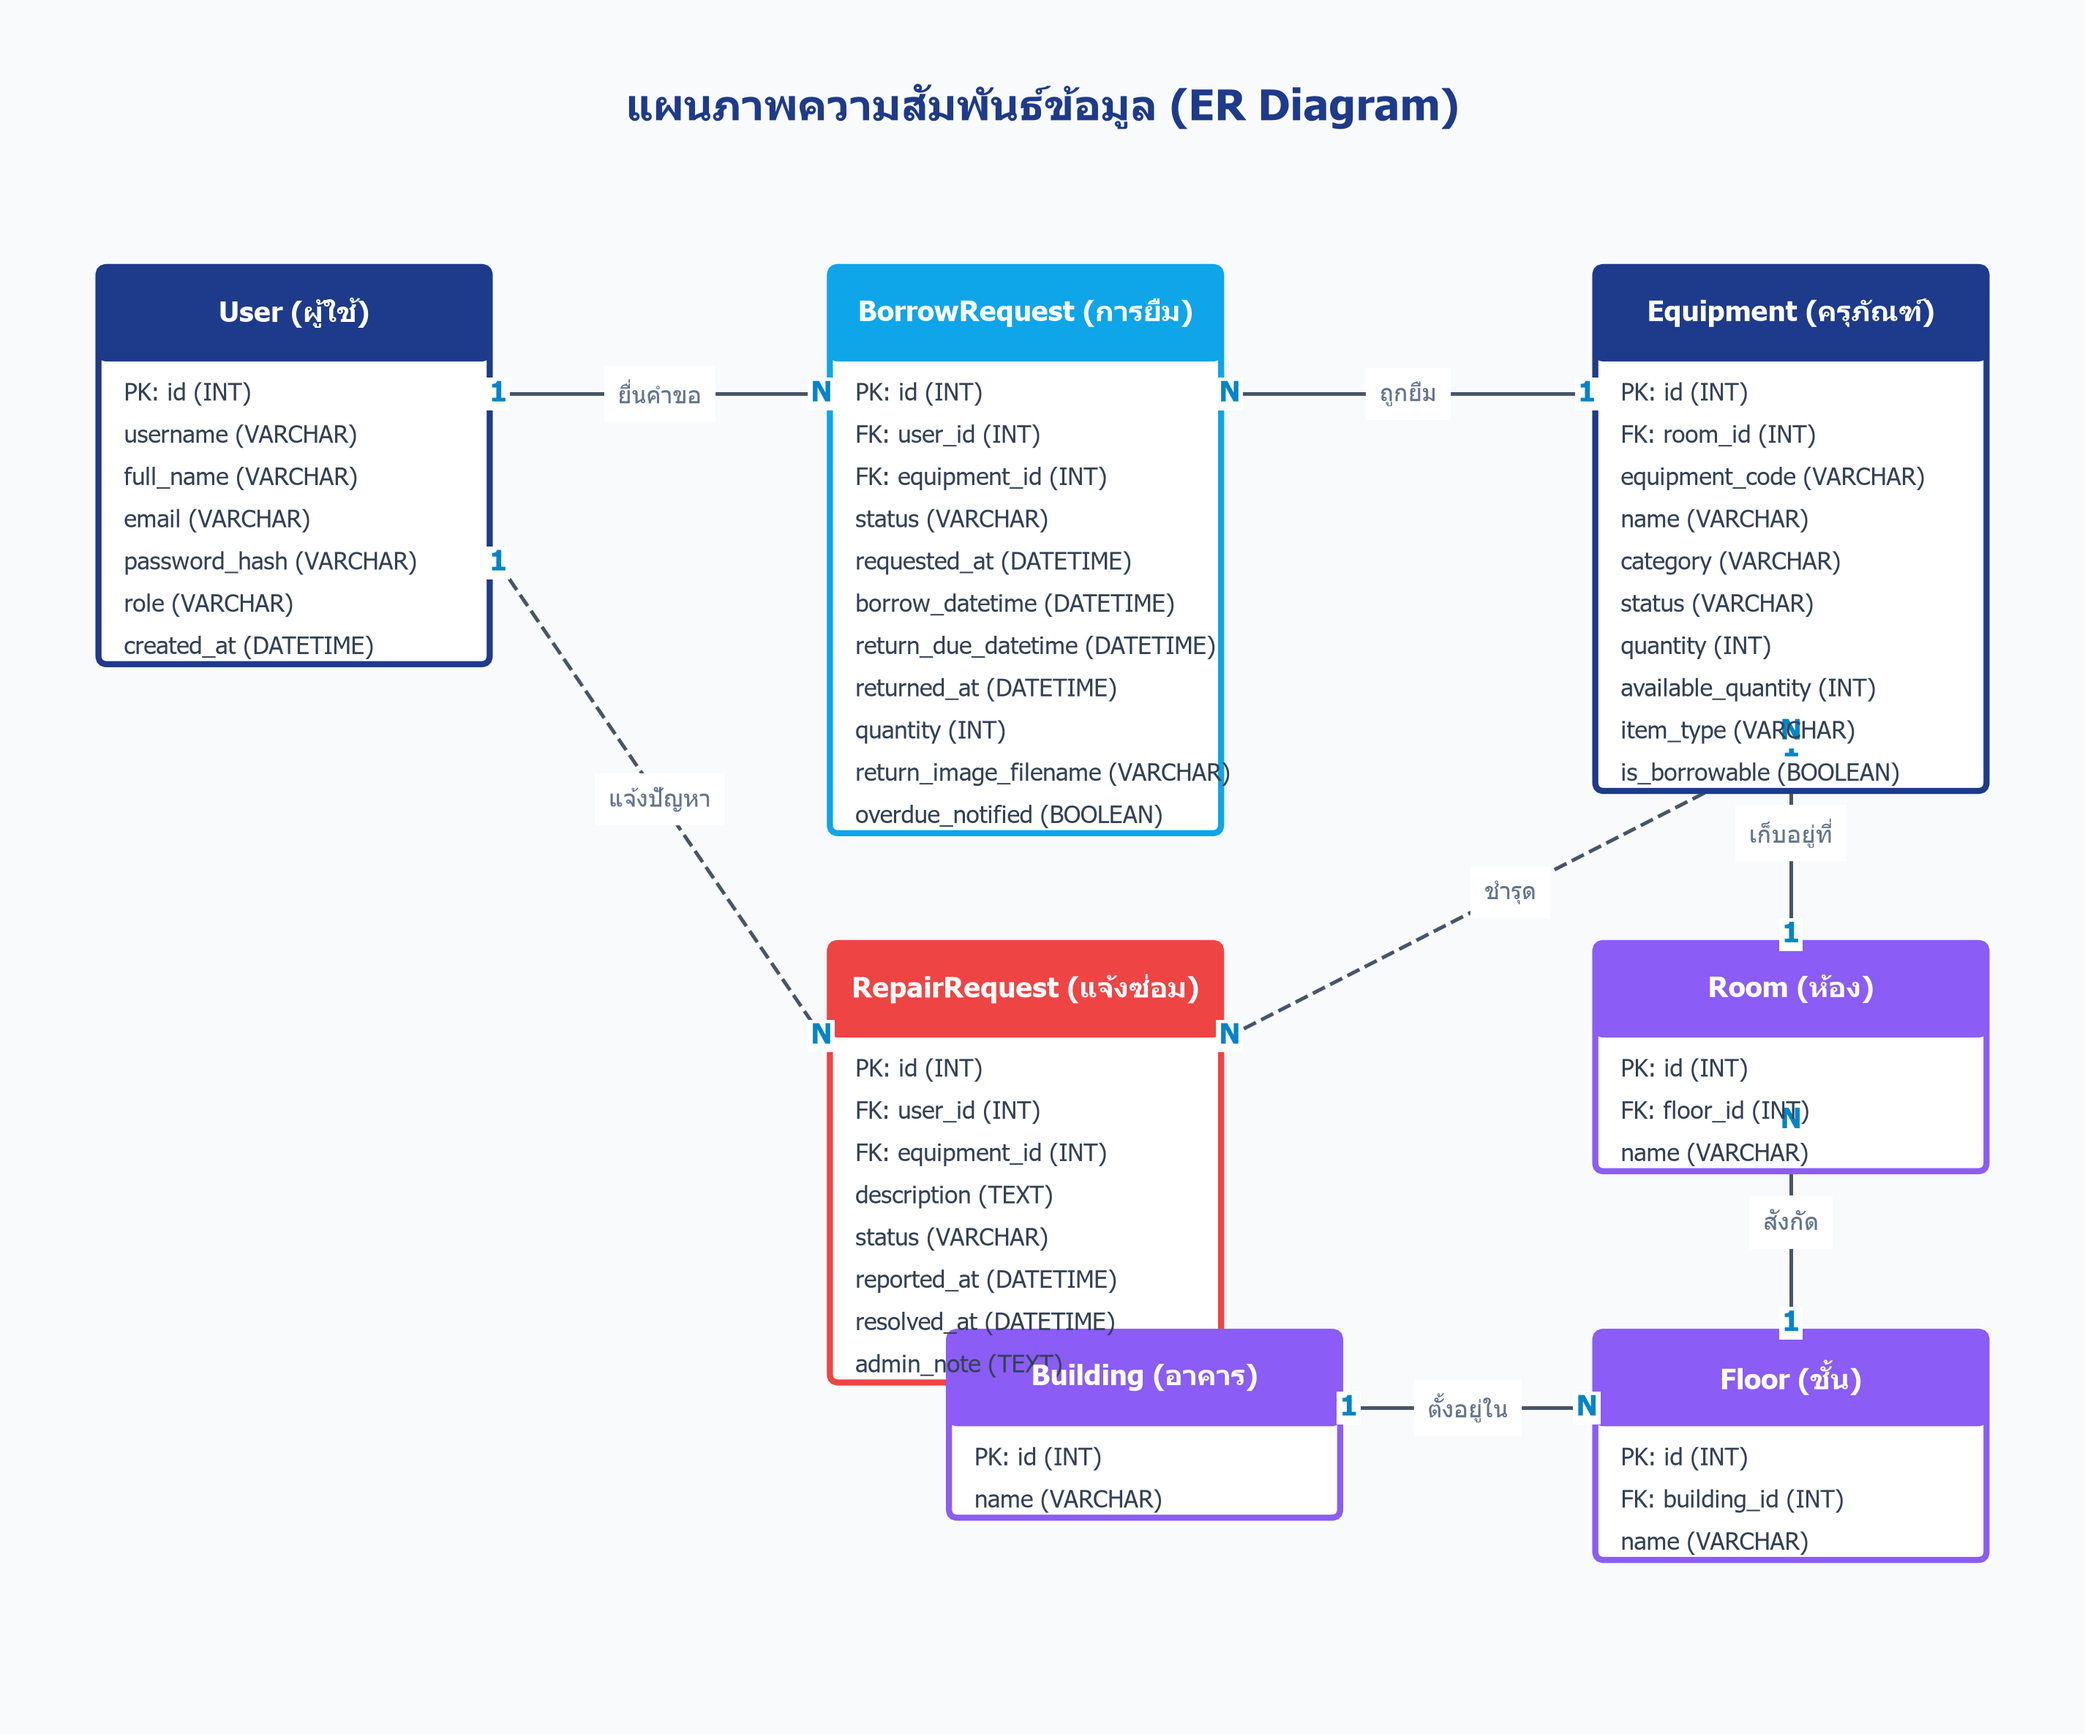
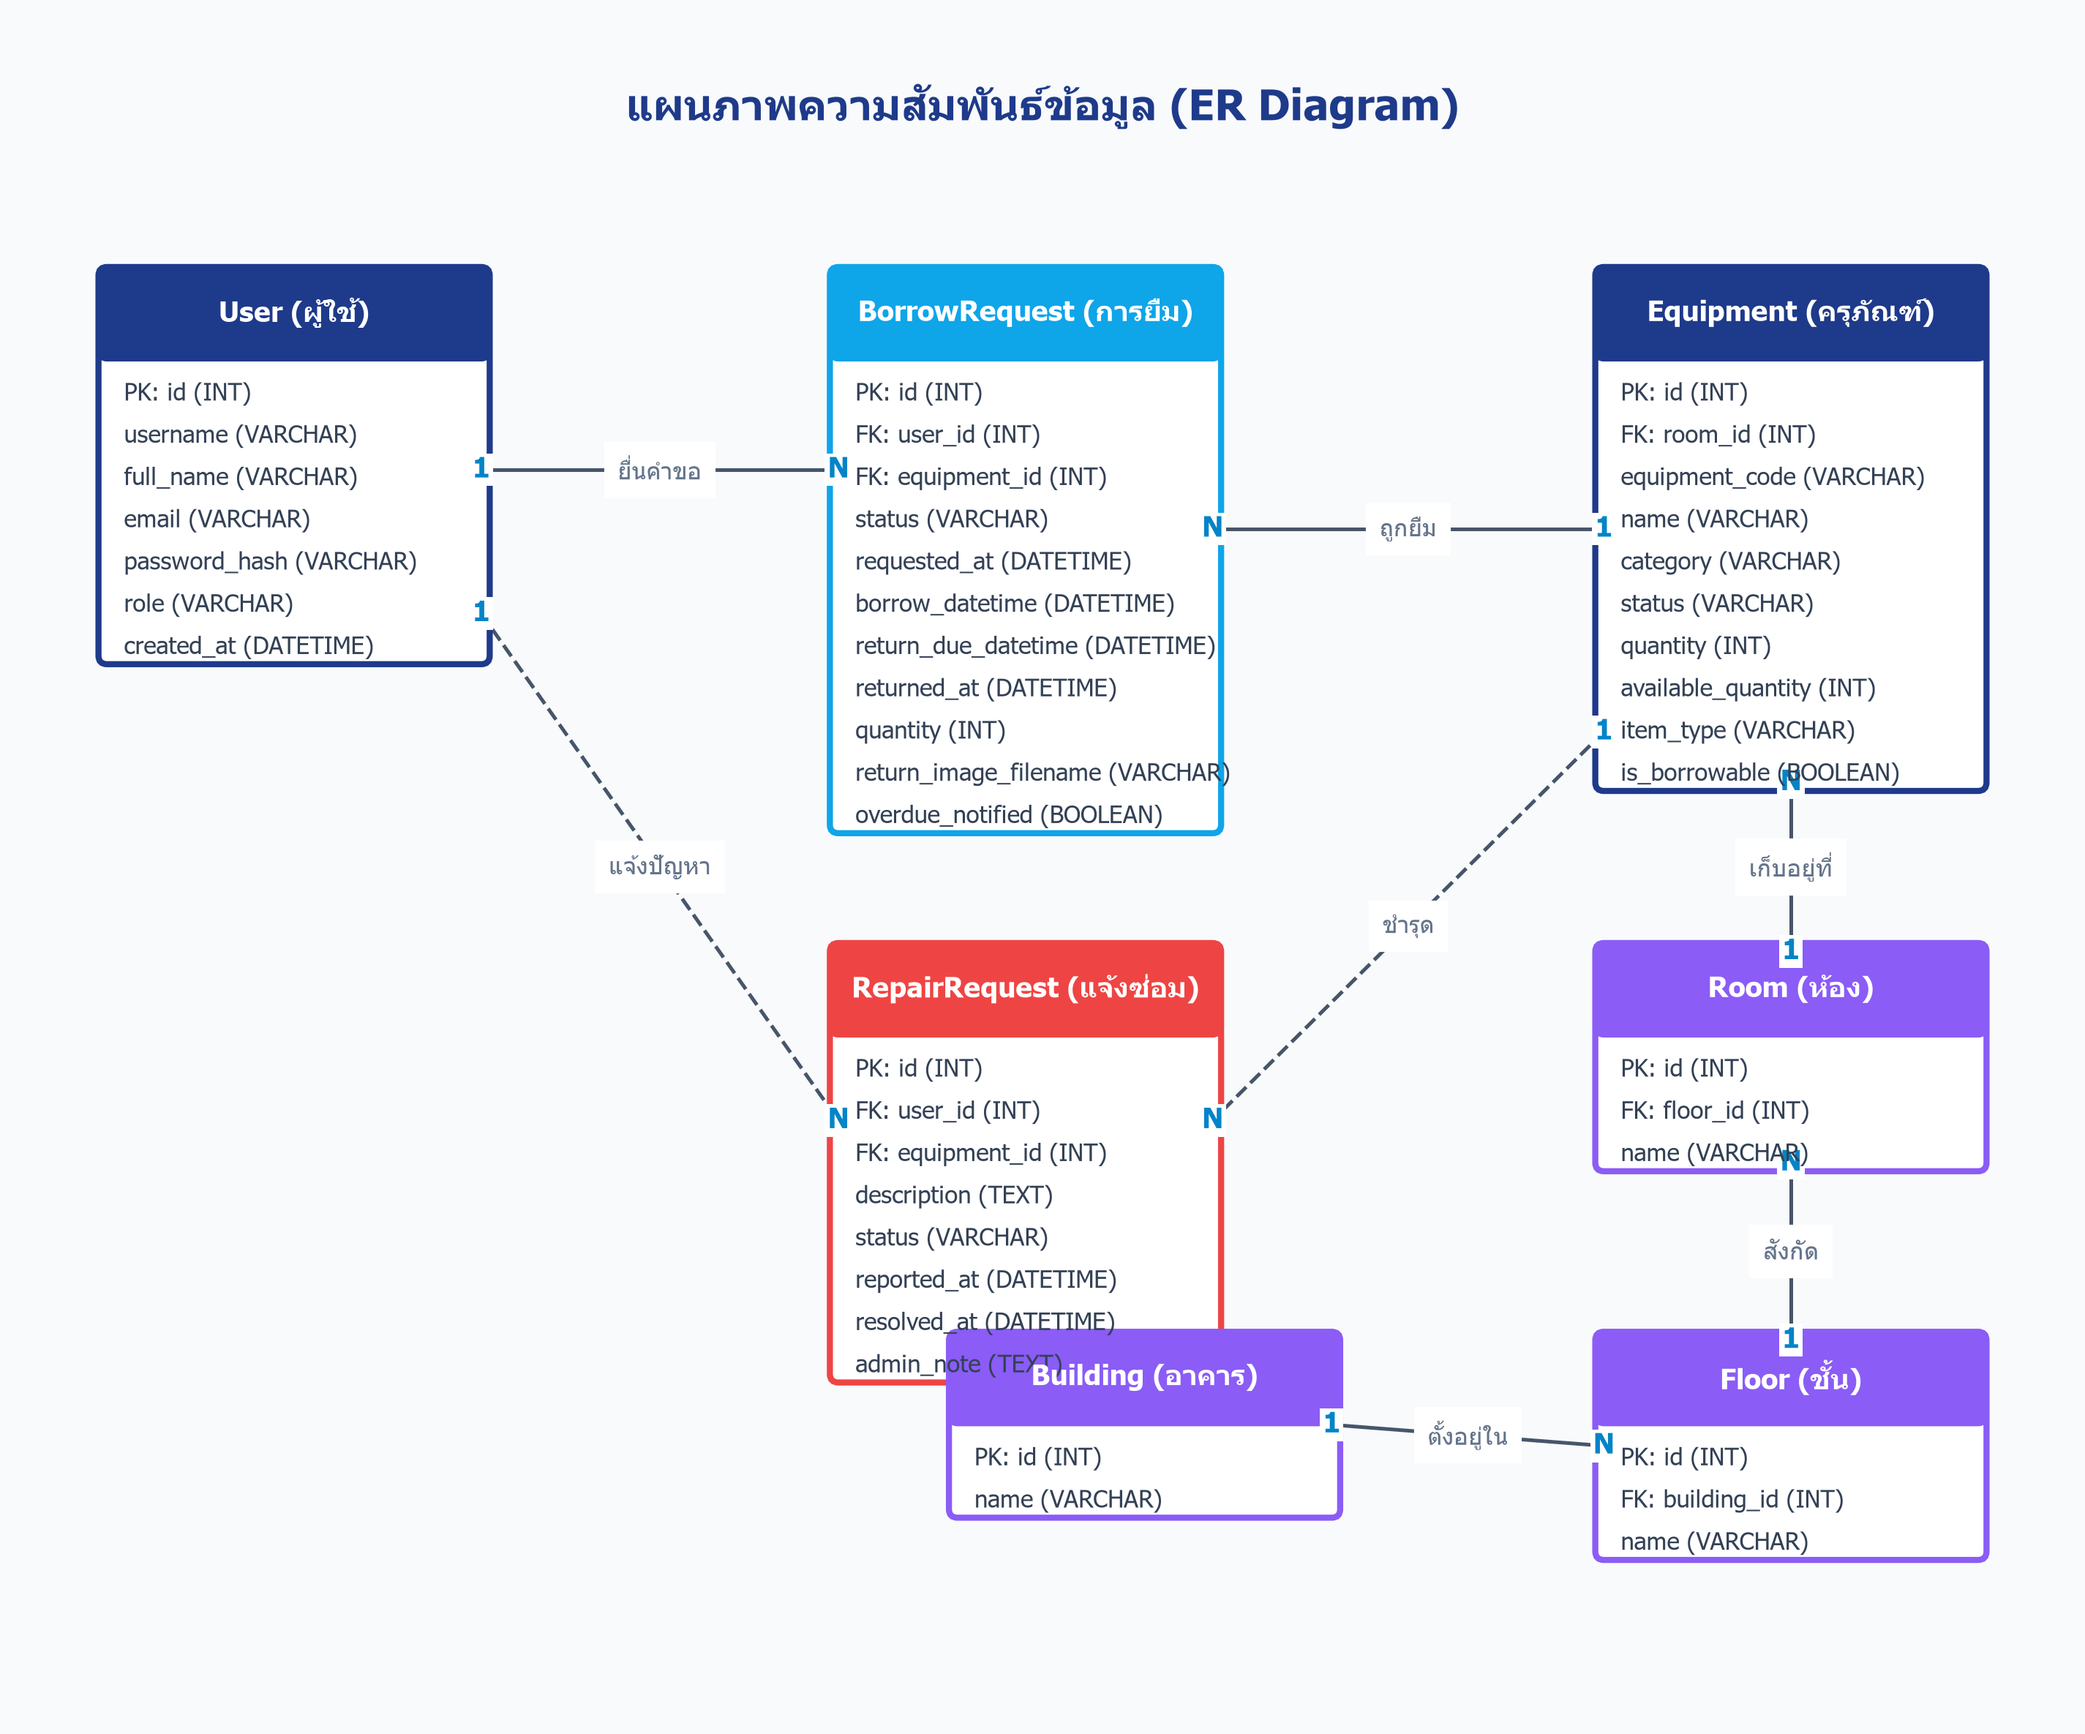
Update ER-Diagram relationship lines to connect to outer edges, removing overlaps

diff --git a/scripts/draw_diagrams.py b/scripts/draw_diagrams.py
@@ -165,25 +165,25 @@ def draw_er_diagram():
             ax.text((x1+x2)/2, (y1+y2)/2, text, fontsize=8, color='#64748b', ha='center', va='center', backgroundcolor='white')
 
     # User (1) -- (N) BorrowRequest
-    draw_line(2.8, 7.8, 4.7, 7.8, "1", "N", "ยื่นคำขอ")
+    draw_line(2.7, 7.35, 4.8, 7.35, "1", "N", "ยื่นคำขอ")
     
     # Equipment (1) -- (N) BorrowRequest
-    draw_line(9.2, 7.8, 7.1, 7.8, "1", "N", "ถูกยืม")
+    draw_line(9.3, 7.0, 7.0, 7.0, "1", "N", "ถูกยืม")
 
     # User (1) -- (N) RepairRequest
-    draw_line(2.8, 6.8, 4.7, 4.0, "1", "N", "แจ้งปัญหา", style='--')
+    draw_line(2.7, 6.5, 4.8, 3.5, "1", "N", "แจ้งปัญหา", style='--')
 
     # Equipment (1) -- (N) RepairRequest
-    draw_line(10.4, 5.7, 7.1, 4.0, "1", "N", "ชำรุด", style='--')
+    draw_line(9.3, 5.8, 7.0, 3.5, "1", "N", "ชำรุด", style='--')
 
     # Room (1) -- (N) Equipment
-    draw_line(10.4, 4.6, 10.4, 5.8, "1", "N", "เก็บอยู่ที่")
+    draw_line(10.4, 4.5, 10.4, 5.5, "1", "N", "เก็บอยู่ที่")
 
     # Floor (1) -- (N) Room
-    draw_line(10.4, 2.3, 10.4, 3.5, "1", "N", "สังกัด")
+    draw_line(10.4, 2.2, 10.4, 3.25, "1", "N", "สังกัด")
 
     # Building (1) -- (N) Floor
-    draw_line(7.8, 1.8, 9.2, 1.8, "1", "N", "ตั้งอยู่ใน")
+    draw_line(7.7, 1.7, 9.3, 1.575, "1", "N", "ตั้งอยู่ใน")
 
     save_fig(fig, "er_diagram.png")
     plt.close(fig)
